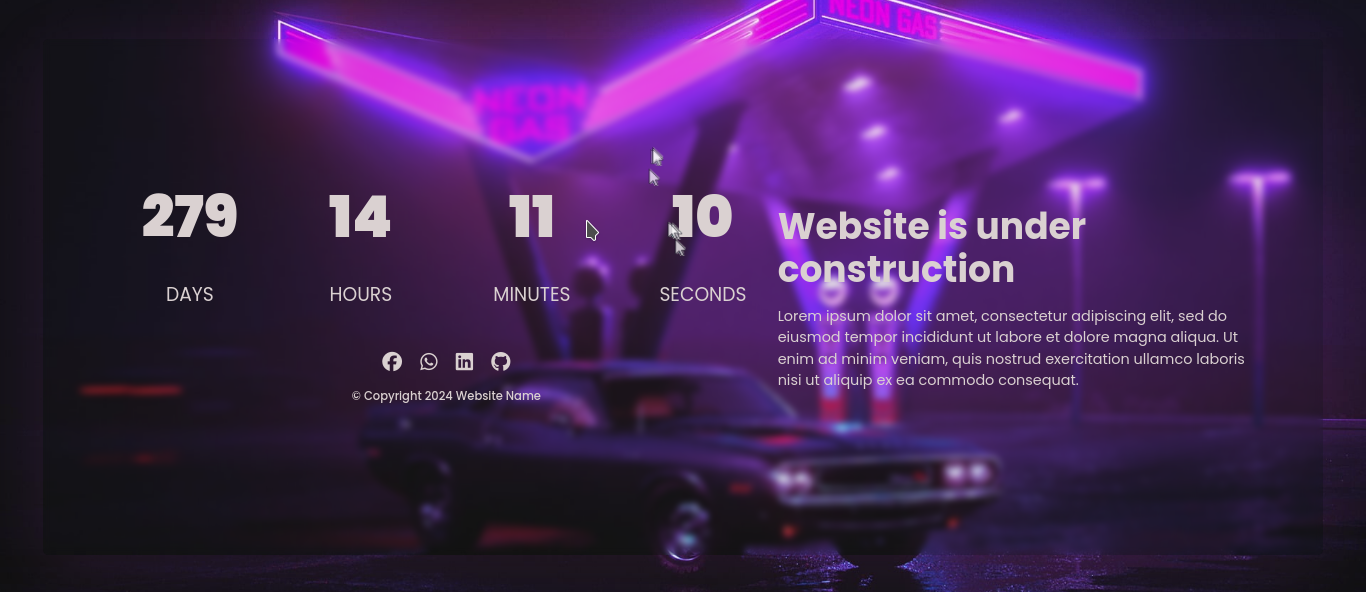
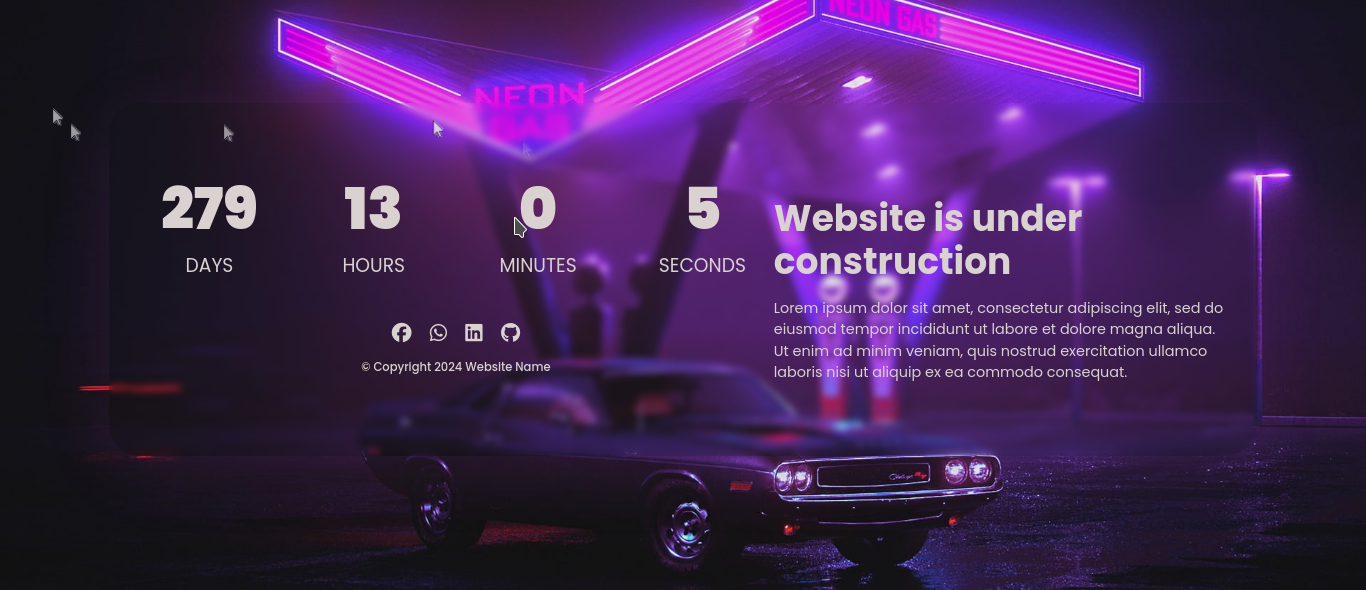
Initial Commit

diff --git a/index.html b/index.html
@@ -48,6 +48,8 @@
             transition: all 0.3s ease-in-out;
             margin: 0 auto;
             float: none;
+            margin: 5%;
+            border-radius: 35px;
         }
 
         small {
@@ -67,6 +69,38 @@
         i {
             font-size: 22px !important;
         }
+
+
+        #mobile {
+            display: block;
+        }
+
+        #desktop {
+            display: none;
+        }
+
+        .row {
+            padding: 0rem !important;
+        }
+
+        @media (min-width:770px) {
+
+            #mobile {
+                display: none;
+            }
+
+            #desktop {
+                display: block;
+            }
+
+            .row {
+                padding: 3rem;
+            }
+
+            .card {
+                margin: 8%;
+            }
+        }
     </style>
 
     <title>Website Name</title>
@@ -74,9 +108,15 @@
 
 <body>
 
-    <div class="card px-3 py-5 m-5">
-        <div class="card-body py-5">
-            <div class="row g-0 px-5 py-5">
+    <div class="card px-3 py-5">
+        <div class="card-body py-3">
+            <div class="row g-0">
+                <div class="col-md-5 py-3" id="mobile">
+                    <h1 class="card-title"><strong>Website is under construction</strong></h1>
+                    <p class="card-text sub-title mt-3">Lorem ipsum dolor sit amet, consectetur adipiscing elit, sed do
+                        eiusmod tempor incididunt ut labore et dolore magna aliqua. Ut enim ad minim veniam, quis
+                        nostrud exercitation ullamco laboris nisi ut aliquip ex ea commodo consequat. </p>
+                </div>
                 <div class="col-md-7 py-3">
                     <div class="row row-cols-1 row-cols-sm-2 row-cols-md-2 row-cols-lg-3 row-cols-xl-4 g-4 text-center">
                         <div class="col" id="day"></div>
@@ -93,7 +133,7 @@
                         <h6 class="mt-3">© Copyright 2024 Website Name</h6>
                     </div>
                 </div>
-                <div class="col-md-5 py-3">
+                <div class="col-md-5 py-3" id="desktop">
                     <h1 class="card-title mt-4"><strong>Website is under construction</strong></h1>
                     <p class="card-text sub-title mt-3">Lorem ipsum dolor sit amet, consectetur adipiscing elit, sed do
                         eiusmod tempor incididunt ut labore et dolore magna aliqua. Ut enim ad minim veniam, quis
@@ -125,15 +165,15 @@
         var seconds = Math.floor((count % (1000 * 60)) / 1000);
 
         let _day = document.getElementById("day");
-        _day.innerHTML = "<h3>" + days + "</h3><br><small>Days</small>";
+        _day.innerHTML = "<h3>" + days + "</h3><small>Days</small>";
 
         let _hour = document.getElementById("hour");
-        _hour.innerHTML = "<h3>" + hours + "</h3><br><small>Hours</small>";
+        _hour.innerHTML = "<h3>" + hours + "</h3><small>Hours</small>";
 
         let _minute = document.getElementById("minute");
-        _minute.innerHTML = "<h3>" + minutes + "</h3><br><small>Minutes</small>";
+        _minute.innerHTML = "<h3>" + minutes + "</h3><small>Minutes</small>";
 
         let _second = document.getElementById("second");
-        _second.innerHTML = "<h3>" + seconds + "</h3><br><small>Seconds</small>";
+        _second.innerHTML = "<h3>" + seconds + "</h3><small>Seconds</small>";
     }, 1000);
 </script>

diff --git a/README.md b/README.md
@@ -1,6 +1,8 @@
 # landing-page-countdown
 
 <img src="demo.png" />
+<img src="demo-port.png" width="200"/>
+<img src="demo-port.1.png"  width="200"/>
 
 ## Getting started
 - Fork the repository
